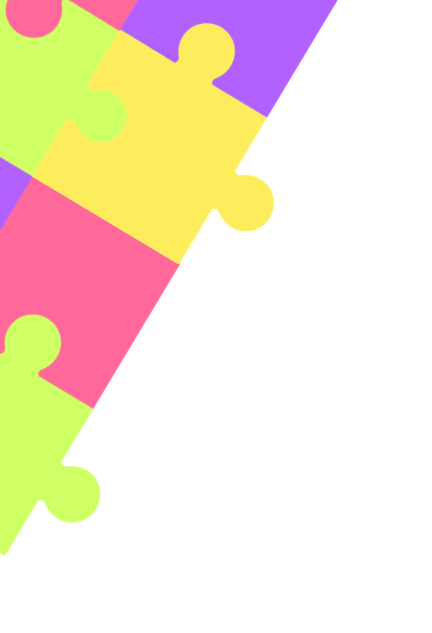
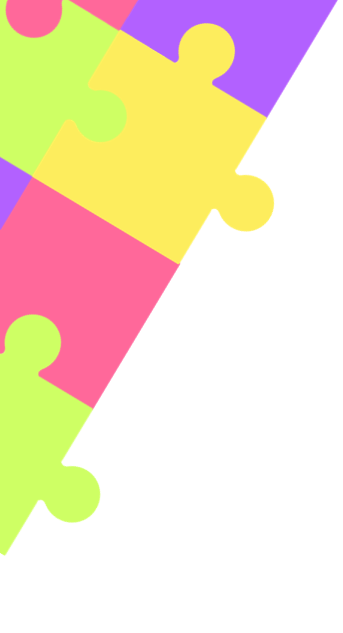
atualizações

diff --git a/layout.css b/layout.css
@@ -15,7 +15,7 @@ header{
     flex: 1;
 }
 #quebraCabecaEsquerdo-header{
-    width: 432px;
+    width: 343px;
     height: 633px;
 }
 .containerNav{
@@ -103,6 +103,17 @@ main > a > .containerBM > .botaoMaterial > h2{
 main > a > .containerBM > .botaoMaterial > h2:hover{
     color: rgb(255, 255, 255);
 }
+@keyframes icone{
+    2% {
+        transform: rotate(0deg);
+    }
+    80% {
+        transform: rotate(-20deg);
+    }
+    18% {
+        transform: rotate(0deg);
+    }
+}
 .bgIcone{
     width: 30px;
     height: 30px;
@@ -112,6 +123,9 @@ main > a > .containerBM > .botaoMaterial > h2:hover{
     align-items: center;
     justify-content: center;
     margin: -18px 0 0 -10px;
+}
+.bgIcone:hover{
+    animation: icone 2s infinite;
 }
 .bgIcone > img{
     width: 22px;
@@ -209,4 +223,43 @@ footer > .containerBgFooter > .logoBaixo > a > #logoSucesso{
 footer > .containerBgFooter > .logoBaixo > a > #logoTaekwondo{
     width: 150px;
     height: 182px;
+}
+
+@media (min-width: 1200px) {
+    main > a > .containerBM > .botaoMaterial{
+        width: 394px;
+        height: 67px;
+    }
+    main > a > .containerBM > .botaoMaterial > h2{
+        font-size: 26px;
+    }
+    footer > .containerBgFooter{
+        width: 900px;
+        height: 740px;
+    }
+    footer > .containerBgFooter > .logoBaixo > a > #logoSucesso{
+        margin: 0 60px 0 50px;
+    }
+}
+@media (min-width: 992px){
+    #quebraCabecaEsquerdo-header{
+        width: 278px;
+        height: 586px;
+    }
+    body > header > .containerNav > nav{
+        width: 408px;
+    }
+    body > header > .containerNav > nav > a > img{
+        margin: 0 14px 0 8px;
+    }
+    #quebraCabecaDireito-header{
+        width: 240px;
+        height: 330px;
+    }
+    footer > .containerBgFooter{
+        width: 850px;
+    }
+    footer > .containerBgFooter > .logoBaixo > a > #logoSucesso{
+        margin: 0 68px 0 30px;
+    }
 }
